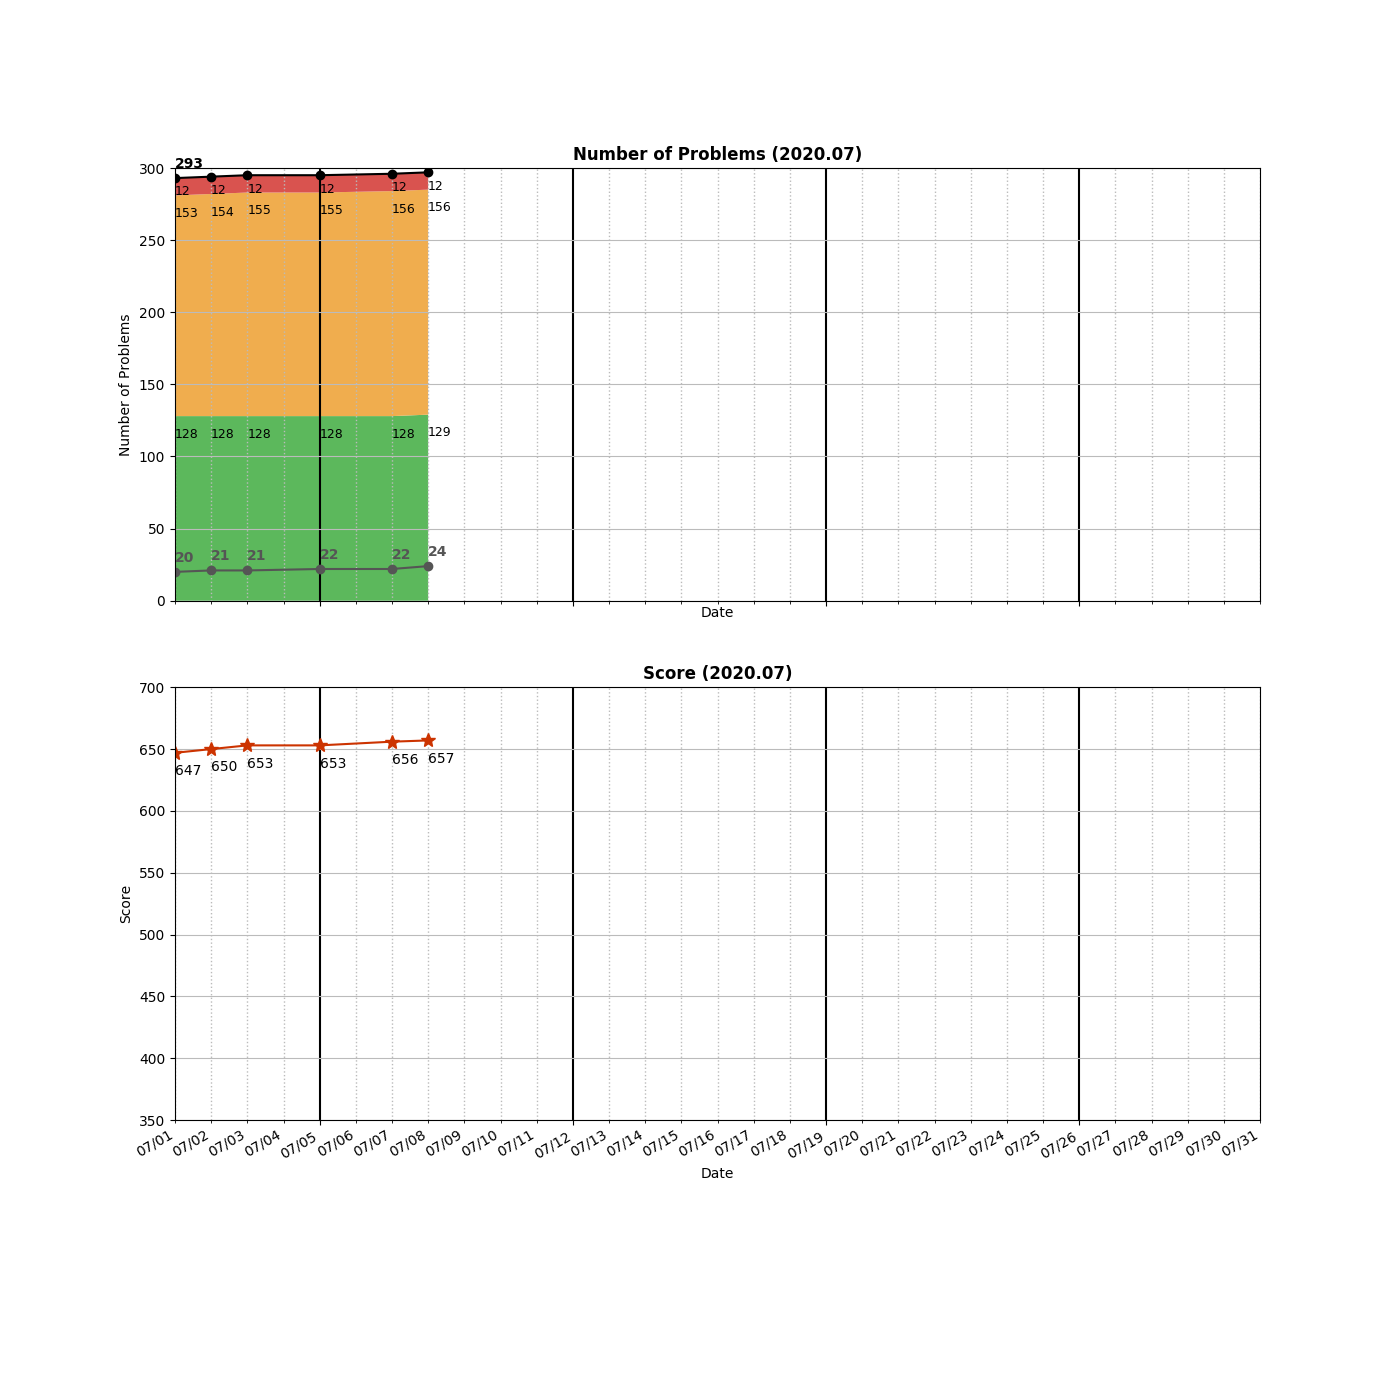
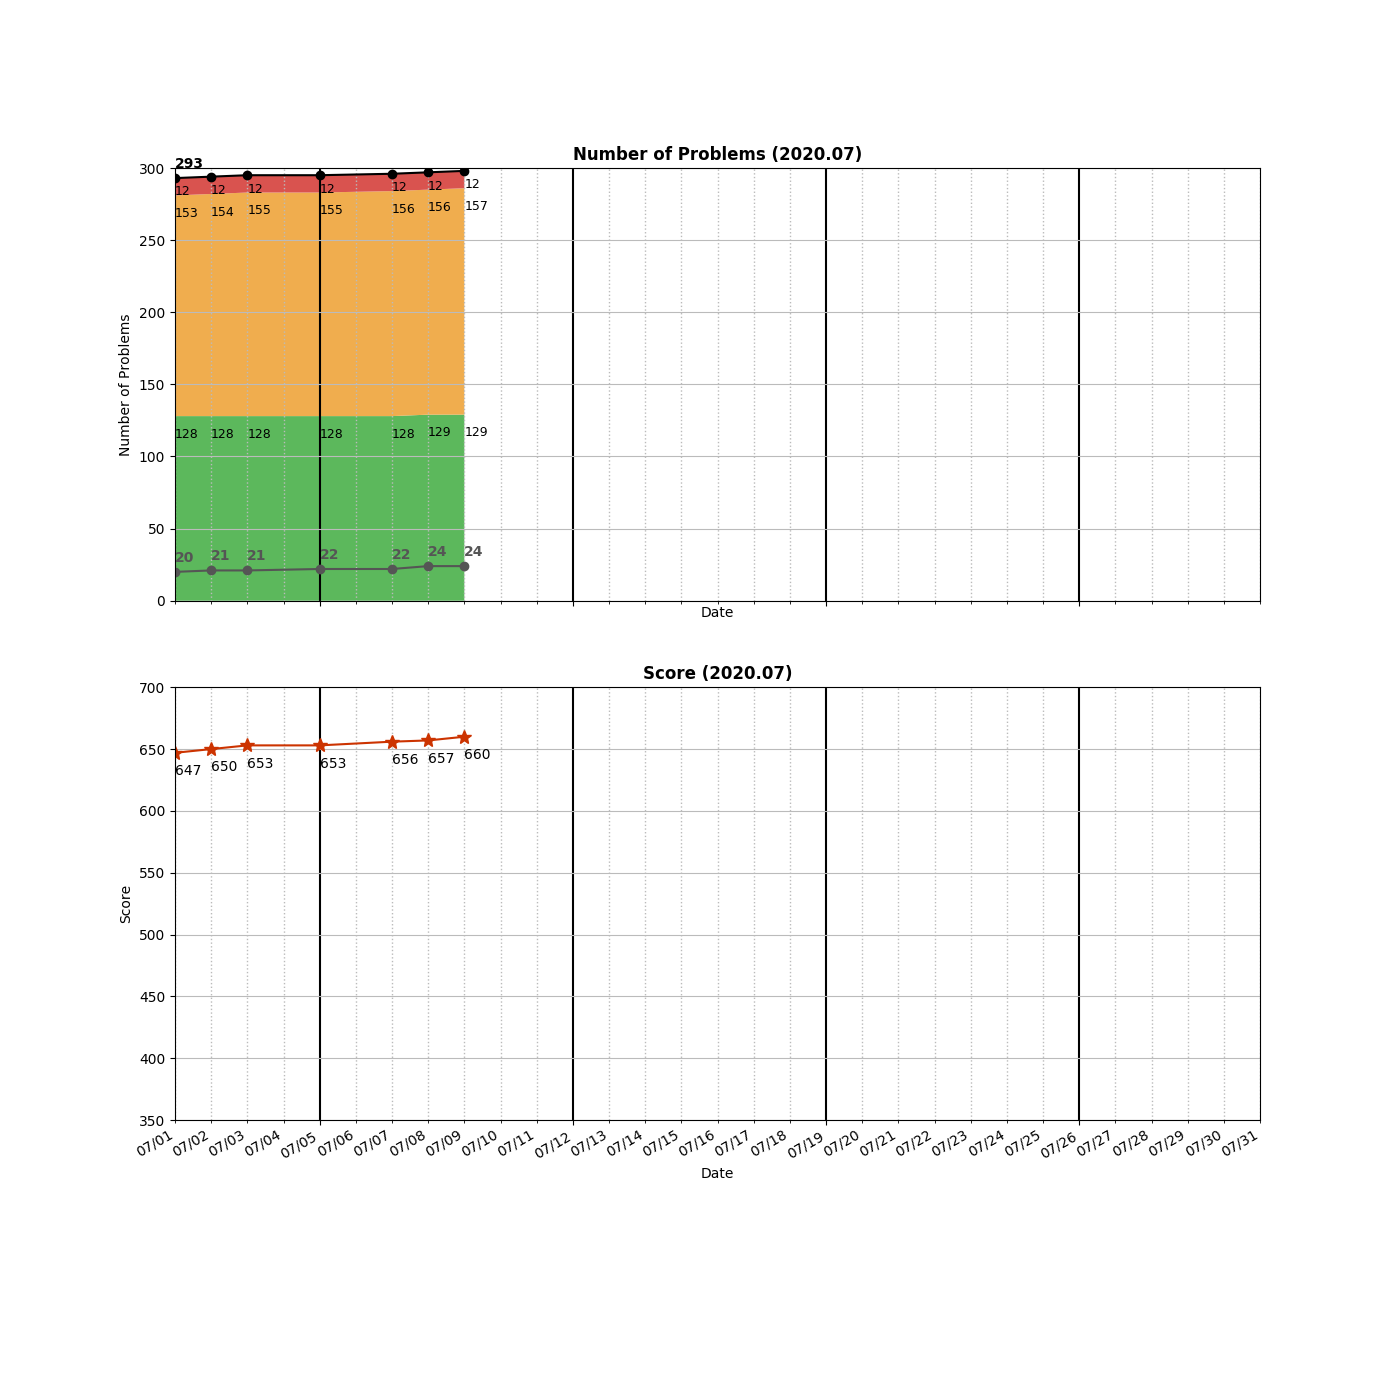
Added _0095_UniqueBinarySearchTrees2.py

Changed region(s): [[0.3071, 0.1229, 0.3379, 0.43], [0.3071, 0.5221, 0.3379, 0.5529]]

diff --git a/algo/tree/_0095_UniqueBinarySearchTrees2.py b/algo/tree/_0095_UniqueBinarySearchTrees2.py
@@ -1,0 +1,40 @@
+# Definition for a binary tree node.
+# class TreeNode:
+#     def __init__(self, x):
+#         self.val = x
+#         self.left = None
+#         self.right = None
+
+class Solution:
+    
+    # Recursive [28%]
+    # => Return the list instead of passing a list to fill it 
+    def generateTrees(self, n: int) -> List[TreeNode]:
+        if n == 0:
+            return []
+        if n == 1:
+            return [TreeNode(1)]
+        
+        result = self.generateSubTree(1, n)
+        return result
+            
+    def generateSubTree(self, start, end):
+        if start > end:
+            return [None]
+        
+        subTrees = []
+        for i in range(start, end+1):
+            
+            # leftList = []
+            # rightList = []
+            leftList = self.generateSubTree(start, i-1)
+            rightList = self.generateSubTree(i+1, end)
+            for l in leftList:
+                for r in rightList:
+                    #print(i)
+                    root = TreeNode(i) 
+                    root.left = l
+                    root.right = r
+                    subTrees.append(root)
+        return subTrees
+            

diff --git a/README.md b/README.md
@@ -257,6 +257,7 @@ algo
 │   └── _1427_PerformStringShifts.py
 ├── tree
 │   ├── _0094_BinaryTreeInorderTraversal.py
+│   ├── _0095_UniqueBinarySearchTrees2.py
 │   ├── _0098_ValidateBinarySearchTree.py
 │   ├── _0100_SameTree.py
 │   ├── _0101_SymmetricTree.py
@@ -321,7 +322,7 @@ algo
     ├── _0127_WordLadder_TLE.py
     └── _0127_WordLadder_wrong.py
 
-25 directories, 295 files
+25 directories, 296 files
 
 =====================================
 ============= Local Repo ============
@@ -391,6 +392,7 @@ _0089_GrayCode.py
 _0090_Subsets2.py
 _0092_ReverseLinkedList2.py
 _0094_BinaryTreeInorderTraversal.py
+_0095_UniqueBinarySearchTrees2.py
 _0096_UniqueBinarySearchTrees.py
 _0098_ValidateBinarySearchTree.py
 _0100_SameTree.py
@@ -621,7 +623,7 @@ _1358_NumberOfSubstringsContainingAllThreeCharacters.py
 _1391_CheckIfThereIsAValidPathInAGrid.py
 _1427_PerformStringShifts.py
 =====================================
-Num of Python Practice:  294
+Num of Python Practice:  295
 
 
 =====================================
@@ -692,6 +694,7 @@ Num of Python Practice:  294
  0090 Subsets II
  0092 Reverse Linked List II
  0094 Binary Tree Inorder Traversal
+ 0095 Unique Binary Search Trees II
  0096 Unique Binary Search Trees
  0098 Validate Binary Search Tree
  0100 Same Tree
@@ -926,10 +929,10 @@ Num of Python Practice:  294
  1427 Perform String Shifts
 =====================================
 Solved / Total (Easy)  :  129 /  421
-Solved / Total (Medium):  156 /  769
+Solved / Total (Medium):  157 /  770
 Solved / Total (Hard)  :   12 /  315
-Solved / Total (All)   :  297 / 1505
-Total Score            :  657
+Solved / Total (All)   :  298 / 1506
+Total Score            :  660
 =====================================
 
 ```
